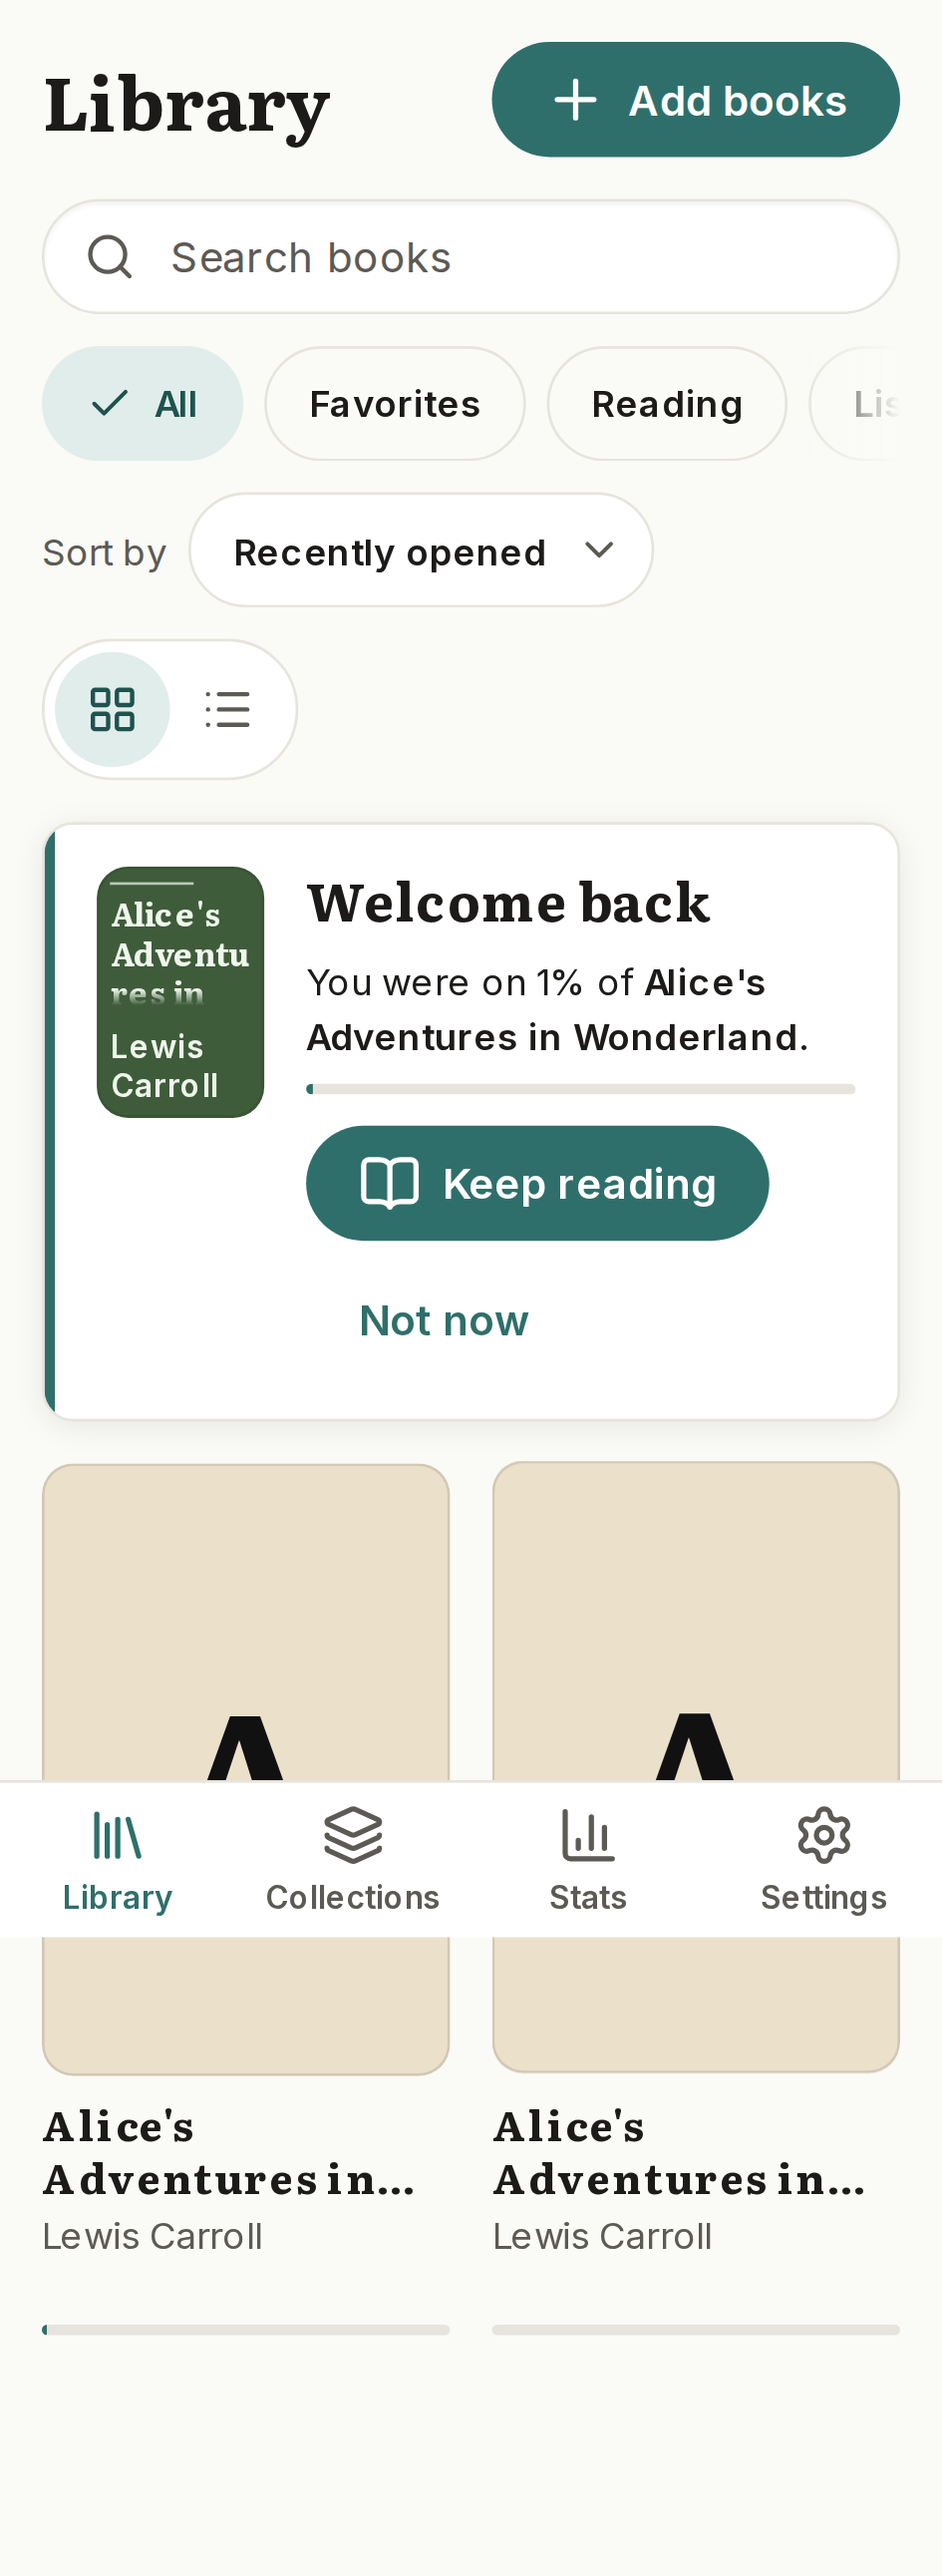
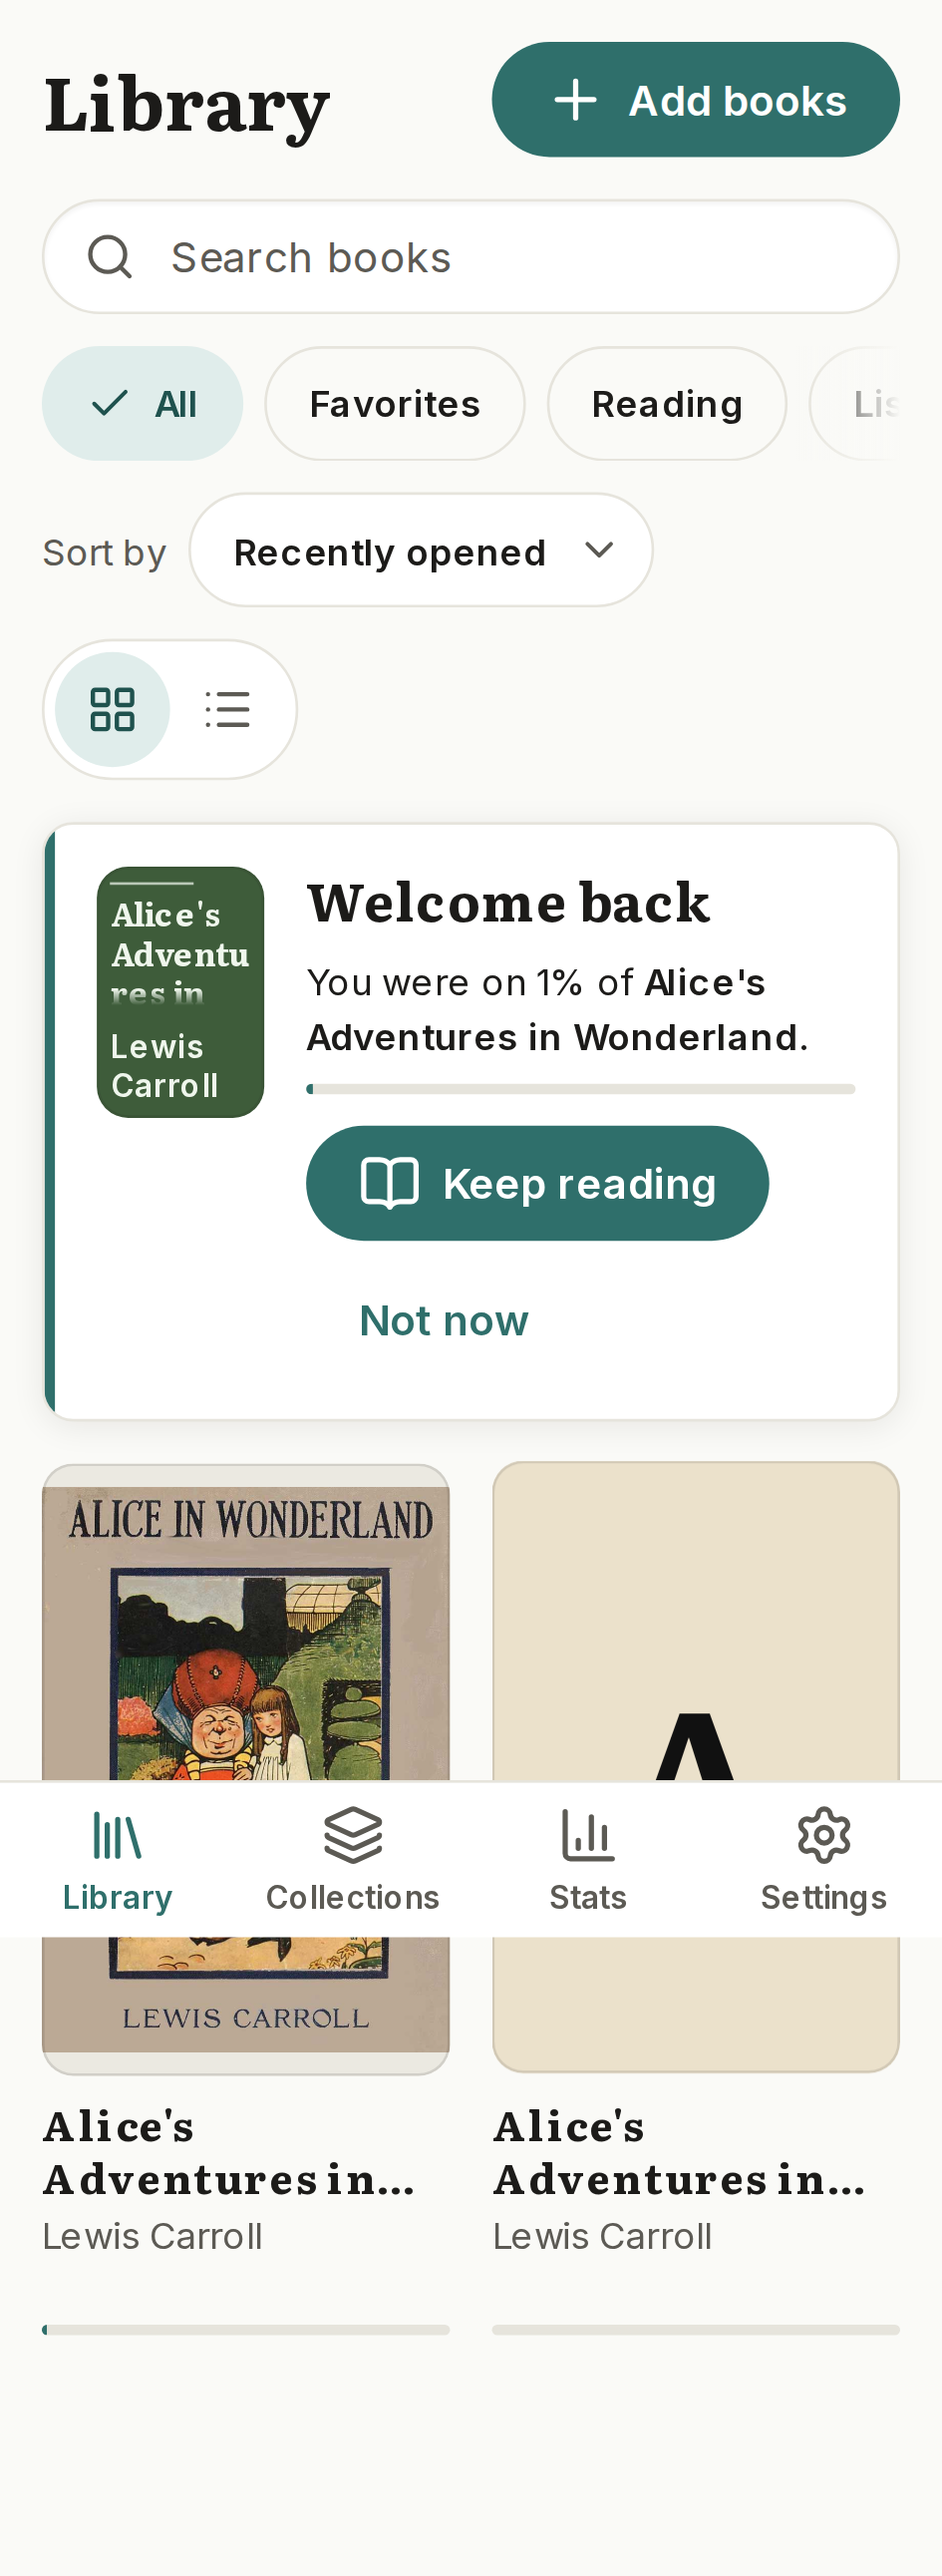
docs: live smoke @ 109a37b on Pages (Chromium shots, WebKit pending b7ec1fc)
Record smoke:live pass/fail table for main-CaS_SA7T deploy, update parity tracker,
and refresh 360px Chromium screenshots from the live run.

Changed region(s): [[0.0307, 0.5575, 0.491, 0.7123], [0.0307, 0.7433, 0.491, 0.8053]]

diff --git a/docs/readera-parity-gaps.md b/docs/readera-parity-gaps.md
@@ -6,7 +6,7 @@ Tracking doc for owner ReadEra polish pass. **Done** items link to merge SHAs wh
 
 | Status | Gap |
 |--------|-----|
-| Open | All / Books / Audio segment (query exists, UI not wired) |
+| In PR | **All / Books / Audio segment** (`LibraryQuery.segment` wired to toolbar chips) |
 | Open | Format tag on grid/list cards |
 | Open | Collection shelf cover collages |
 | Open | Book detail: Read aloud, tabs (chapters, marks, info) |
@@ -16,8 +16,8 @@ Tracking doc for owner ReadEra polish pass. **Done** items link to merge SHAs wh
 
 | Status | Gap |
 |--------|-----|
-| In PR | **Tap zones on book content** (`doc.onTap` → turn / chrome; foliate tap x fix) |
-| Open | Page turn mode in Aa (slide / scroll / none) |
+| Done | **Tap zones on book content** (`e0ec133`, #30) |
+| Done | **Page turn mode in Aa** (`e214e66`, #31) |
 | Open | Align, hyphenation, paragraph spacing in Aa |
 | Open | Edge brightness / warm filter |
 | Open | Open &lt;1.5 s gate on imported EPUB in release smoke |
@@ -44,5 +44,6 @@ Tracking doc for owner ReadEra polish pass. **Done** items link to merge SHAs wh
 
 | Status | Gap |
 |--------|-----|
-| Done | WebKit foliate open (`f42e514` — sandbox patch for closed shadow) |
-| Open | Re-run full `smoke:live` after each parity PR with 360px screenshots |
+| Done | WebKit foliate engine fix (`109a37b` bootstrap + sandbox strip; `#35`) |
+| Done | Pages `_headers` CSP/COOP scoped to HTML only (`b7ec1fc`, `#36`) |
+| Open | Full green `smoke:live` on Pages after `b7ec1fc` deploy (360px screenshots) |

diff --git a/docs/screens/release-smoke-live/pagenest-42f.pages.dev/README.md b/docs/screens/release-smoke-live/pagenest-42f.pages.dev/README.md
@@ -1,0 +1,32 @@
+# Live release smoke @ pagenest-42f.pages.dev
+
+360×740 Playwright profiles (`release-smoke-chromium` = Pixel 7, `release-smoke-webkit` = iPhone 14).
+
+Run:
+
+```bash
+npm run smoke:live -- https://pagenest-42f.pages.dev/
+```
+
+## Deploy `109a37b` smoke (2026-11-01)
+
+Bundle: `main-CaS_SA7T.js` / `engine-foliate-CVVxng76.js`.
+
+| Phase | Chromium | WebKit |
+|-------|----------|--------|
+| Upgrade | **PASS** | **FAIL** — foliate 240s (“Still opening…”) |
+| Core | **PASS** | **FAIL** — foliate 240s |
+| OPFS blocked | skip | skip (suite exited) |
+| Read-aloud device | not run | not run |
+| Read-aloud legacy Piper | not run | not run |
+
+**Root cause (WebKit):** Cloudflare Pages merged the global `/*` `_headers` rule with `/assets/*`, so **CSP and COOP were sent on JavaScript module responses**. WebKit loaded `foliate-view` but book iframe documents stayed empty. Fixed in **`b7ec1fc`** (document headers on HTML routes only). Re-run live smoke after that deploy.
+
+Screenshots in this folder from the Chromium portions of that run; WebKit foliate shots pending green smoke post-`b7ec1fc`.
+
+## Prior merges on this host
+
+| SHA | Notes |
+|-----|--------|
+| `109a37b` | WebKit foliate bootstrap + build-time sandbox strip (#35) |
+| `571119b` | Tap zones (#30), page turn (#31), smoke console guards |
